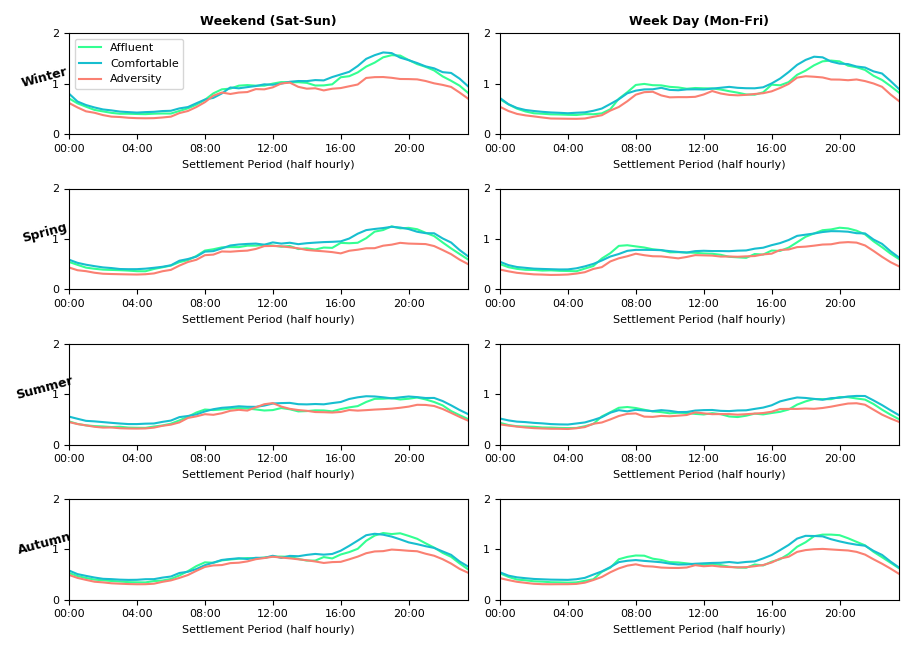
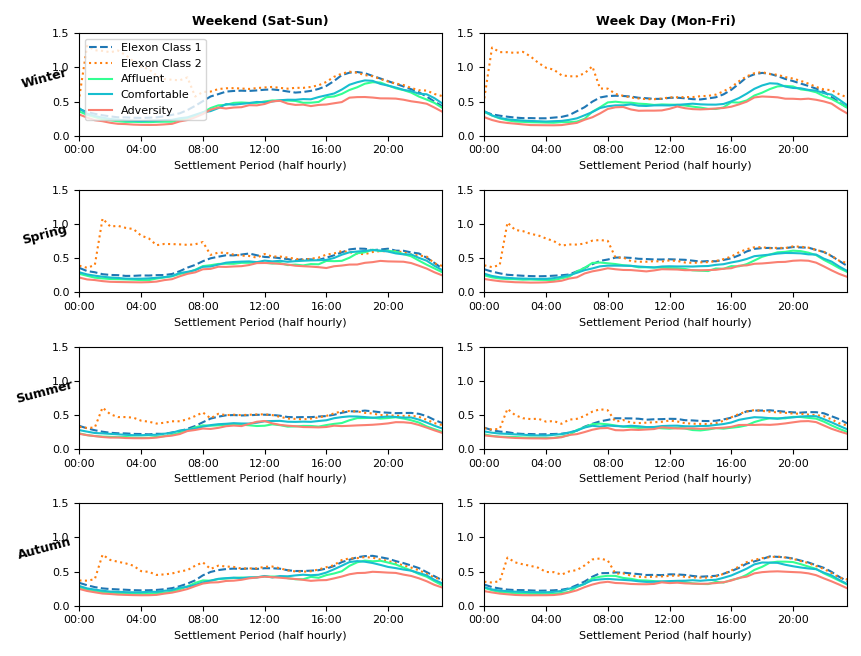
SM fix

diff --git a/Data/SM_Load.py b/Data/SM_Load.py
@@ -22,16 +22,15 @@ Adversity | 55 | 662 | 7.75 |   15.99 | 0.33
 Comfortable | 46 | 655 | 9.24 |   19.24 | 0.40
 Affluent | 86 | 676 | 11.17 |   25.59 | 0.53
 
-The script creates 3 pickle files with the data processed:
+The script creates 4 pickle files with the data processed:
     
 - "SM_DataFrame.pickle" - Smart meter raw data for 187 Smart meters (subset of the 5,500 LCL customers).Timestamped
 
 - "SM_Summary.pickle" - Summary of Acorn Group, Date Ranges and Means/Peaks for each household
 
-- "SM_Normalised.pickle" - Customers are combined into Seasonal (and weekday/weekend) daily profiles by ACorn Group
+- 'SM_DistsByAcorn_NH' Costumers by acorn group with overnight heating demand removed
 
-- 'SMDistsByAcorn_NH' Costumers by acorn group with overnight heating demand removed
-
+- "SM_Consolidated_NH.pickle" - Customers are combined into Seasonal (and weekday/weekend) daily profiles by ACorn Group, Heating demand removed
 
 @author: Calum Edmunds
 """
@@ -105,10 +104,9 @@ def SMCondensed():
             SM_Summary["MaxDate"][z] = SM_Individual['Date'].max()
             SM_Summary["Days"][z] = (SM_Individual['Date'].max() - SM_Individual['Date'].min()).days
             SM_Summary["Tariff"][z] = SM_Individual["Tar"].unique()
-            SM_Individual['kWh']=SM_Individual['kWh'].replace("Null", 0).astype(float) * 2
             SM_Summary["PeakDemandkW"][z] = SM_Individual["kWh"].max()*2
             SM_Summary["DemandkWh/Day"][z] = SM_Individual["kWh"].sum() / SM_Summary["Days"][z]
-            SM_Summary["AvDemandkW"][z] = SM_Individual["kWh"].mean()
+            SM_Summary["AvDemandkW"][z] = (SM_Individual["kWh"]*2).mean()
             if len(SM_Individual) > 0:
                 SM_Stripped=SM_Individual['kWh'].replace("Null", 0).astype(float) * 2
                 SM_Stripped.index=pd.to_datetime(SM_Individual["Date"], format="%Y/%m/%d %H:%M:%S")
@@ -133,7 +131,7 @@ def SMCondensed():
     pickle_out.close()
     
     
-###SMCondensed()
+#This function prints summary data for the customers
 
 def generate_summaryData():
     pickle_in = open("Pickle/SM_Summary.pickle", "rb")
@@ -163,6 +161,7 @@ times = ['00:00','04:00','08:00','12:00','16:00','20:00','24:00']
 elexon_class1=pd.read_excel('Profiles/Average_Profiling_data_Elexon.xlsx', sheet_name='class1', index_col=0)
 elexon_class2=pd.read_excel('Profiles/Average_Profiling_data_Elexon.xlsx', sheet_name='class2',index_col=0)
 
+#This function categorises the data by Acorn Group and by Season
 def DataFramebySeason(SM_DataFrame,SM_Summary,smkeys,AcornGroup):
     SM_ByAcorn={}
    
@@ -195,27 +194,27 @@ def DataFramebySeason(SM_DataFrame,SM_Summary,smkeys,AcornGroup):
     return SM_ByAcorn
     
 #-------- Converting the data from a single column to rows of 48 hours of Data
-#Do profiles by Smartmeter by Acorn and Season
+#Daily profiles are created by Smartmeter categorised Acorn and Season
 def profilesBySM(SM_ByAcorn):
-    SMDistsByAcorn= {}
+    SM_DistsByAcorn= {}
     for i in AcornGroup:
-        SMDistsByAcorn[i]= {}
+        SM_DistsByAcorn[i]= {}
         for z in smkeys:
             SM_ByAcorn[i][z]=SM_ByAcorn[i][z].loc[:,~SM_ByAcorn[i][z].columns.duplicated()]
             print(z)
-            SMDistsByAcorn[i][z]={}
+            SM_DistsByAcorn[i][z]={}
             for c in SM_ByAcorn[i][z]:
                 n=0
                 print(c)
-                SMDistsByAcorn[i][z][c]=pd.DataFrame(index=range(0,20000),columns=range(0,48))
+                SM_DistsByAcorn[i][z][c]=pd.DataFrame(index=range(0,20000),columns=range(0,48))
                 for d in range(0, int(len(SM_ByAcorn[i][z][c])/48)):
-                    SMDistsByAcorn[i][z][c].iloc[n] = SM_ByAcorn[i][z][c].iloc[48*d:48*d+48].values.astype(float)
+                    SM_DistsByAcorn[i][z][c].iloc[n] = SM_ByAcorn[i][z][c].iloc[48*d:48*d+48].values.astype(float)
                     #print(SM_ByAcorn[i][z][c].iloc[48*d:48*d+48].index.min())
                     #print(SM_ByAcorn[i][z][c].iloc[48*d:48*d+48].index.max())
                     n=n+1
-                SMDistsByAcorn[i][z][c] = SMDistsByAcorn[i][z][c][SMDistsByAcorn[i][z][c].sum(axis=1) > 0]
-                SMDistsByAcorn[i][z][c].reset_index(drop=True, inplace=True)
-    return SMDistsByAcorn
+                SM_DistsByAcorn[i][z][c] = SM_DistsByAcorn[i][z][c][SM_DistsByAcorn[i][z][c].sum(axis=1) > 0]
+                SM_DistsByAcorn[i][z][c].reset_index(drop=True, inplace=True)
+    return SM_DistsByAcorn
 
 #------------------- Data Visualisation -----------------------------#
 def SM_Visualise(SM_DistsConsolidated,smkeys,times):
@@ -227,16 +226,17 @@ def SM_Visualise(SM_DistsConsolidated,smkeys,times):
     r=0
     for item in smkeys:
         plt.subplot(420 + n)
-        plt.plot(elexon_class1[smkeys(i)])
+        plt.plot(elexon_class1[item].values, linestyle="--",label="Elexon Class 1")
+        plt.plot(elexon_class2[item].values, linestyle=":",label="Elexon Class 2")
         plt.plot(SM_DistsConsolidated['Affluent'][item].mean(),color='#33FF92', label="Affluent")
         plt.plot(SM_DistsConsolidated['Comfortable'][item].mean(),color='#17becf', label="Comfortable")
         plt.plot(SM_DistsConsolidated['Adversity'][item].mean(),color='#FA8072', label="Adversity")
         plt.xlabel("Settlement Period (half hourly)", fontsize=8)
         #plt.ylabel("Demand (kW)", fontsize=8)
         plt.xlim([0,47])
-        plt.ylim([0,2])
+        plt.ylim([0,1.5])
         #plt.yticks([0,0.5,1,1.5,2])
-        #plt.yticks([0,0.4,0.8,1.2,1.6])
+        plt.yticks([0,0.5,1,1.5])
         plt.xticks(fontsize=8)
         plt.yticks(fontsize=8)
         if n==1:
@@ -250,48 +250,45 @@ def SM_Visualise(SM_DistsConsolidated,smkeys,times):
         n = n + 1
         plt.xticks(range(0,47,8),times)
 
-#SM_Visualise(smkeys)
-
-#SM_ByAcorn=Consolidate(smkeys)
 
 #---------- Removing heating loads
-pick_in = open("Pickle/SM_DailyByAcorn.pickle", "rb")
-SMDistsByAcorn = pickle.load(pick_in)
+pick_in = open("Pickle/SM_DistsByAcorn.pickle", "rb")
+SM_DistsByAcorn = pickle.load(pick_in)
 
 def Heaters(SM_DataFrame):
     Heaters=(SM_DataFrame[SM_DataFrame.index.hour==0]>4).sum()>1
     Heaters=Heaters[Heaters]
     HeatersSort=(SM_DataFrame[SM_DataFrame[Heaters.index].index.hour==0].sum()+SM_DataFrame[SM_DataFrame[Heaters.index].index.hour==1].sum()).sort_values()
-    ToRemove = HeatersSort[HeatersSort>4000].index
+    ToRemove = HeatersSort[HeatersSort>2000].index
     return ToRemove,HeatersSort
 
-def HeatVisuals(times,SMDistsByAcorn,SM_DataFrame,HeatersSort):
 #----------------- Visualise Heat Loads ----------
+def HeatVisuals(times,SM_DistsByAcorn,SM_DataFrame,HeatersSort):
     n=1
     for z in HeatersSort[-4:].index:
         plt.subplot(420 + n)
         plt.xlim([0,47])
-        plt.ylim([0,20])
+        plt.ylim([0,12])
         plt.xticks(fontsize=8)
         plt.yticks(fontsize=8)
         plt.xticks(range(0,47,8),times)
         if n==1:
             plt.title('Weekend (Sat-Sun)', fontsize=9, fontweight="bold")
-        for i in SMDistsByAcorn['Affluent']['WinterWknd'][z].index:
-           plt.plot(SMDistsByAcorn['Affluent']['WinterWknd'][z].loc[i], linewidth=0.5)
-        plt.plot(SMDistsByAcorn['Affluent']['WinterWknd'][z].mean(),linestyle="--",color="black")
+        for i in SM_DistsByAcorn['Affluent']['WinterWknd'][z].index:
+           plt.plot(SM_DistsByAcorn['Affluent']['WinterWknd'][z].loc[i], linewidth=0.5)
+        plt.plot(SM_DistsByAcorn['Affluent']['WinterWknd'][z].mean(),linestyle="--",color="black")
         n=n+1
         if n%2==0:
             plt.ylabel(z, rotation=25, fontsize=9, fontweight="bold")
         plt.subplot(420 + n)
         plt.xlim([0,47])
-        plt.ylim([0,20])
+        plt.ylim([0,12])
         plt.xticks(fontsize=8)
         plt.yticks(fontsize=8)
         plt.xticks(range(0,47,8),times)
-        for i in SMDistsByAcorn['Affluent']['WinterWkd'][z].index:
-           plt.plot(SMDistsByAcorn['Affluent']['WinterWkd'][z].loc[i], linewidth=0.5)
-        plt.plot(SMDistsByAcorn['Affluent']['WinterWkd'][z].mean(),linestyle="--",color="black")
+        for i in SM_DistsByAcorn['Affluent']['WinterWkd'][z].index:
+           plt.plot(SM_DistsByAcorn['Affluent']['WinterWkd'][z].loc[i], linewidth=0.5)
+        plt.plot(SM_DistsByAcorn['Affluent']['WinterWkd'][z].mean(),linestyle="--",color="black")
         if n==2:
             plt.title('Week Day (Mon-Fri)', fontsize=9, fontweight="bold")
         n=n+1
@@ -302,12 +299,10 @@ def removeHeating(SM_DataFrame,SM_Summary,ToRemove):
     SM_Summary_NH=SM_Summary.drop(index=ToRemove)
     SM_Summary_NH=SM_Summary_NH[~SM_Summary_NH.index.duplicated()]
     SM_ByAcorn_NH=DataFramebySeason(SM_DataFrame_NH,SM_Summary_NH,smkeys,AcornGroup)
-    #SMDistsByAcorn_NH=profilesBySM(SM_ByAcorn_NH)
     
-    return SM_Summary_NH,SM_DataFrame_NH, SM_ByAcorn_NH#, SMDistsByAcorn_NH
+    return SM_Summary_NH,SM_DataFrame_NH, SM_ByAcorn_NH
 
 #Create new DF with heat demand removed
-    
 def nowdf(SM_DataFrame):
     ToRemove,HeatersSort=Heaters(SM_DataFrame)
     SM_Summary_NH,SM_DataFrame_NH = removeHeating(SM_DataFrame,SM_Summary)
@@ -315,26 +310,26 @@ def nowdf(SM_DataFrame):
     
 
 #Convert from Individual SMs by Acorn to consolidated by ACorn
-def ConsolidatefromAcornSMs(SMDistsByAcorn_NH):
+def ConsolidatefromAcornSMs(SM_DistsByAcorn_NH):
     SM_DistsConsolidated={}
     for i in AcornGroup:
         SM_DistsConsolidated[i]= {}
         for z in smkeys:
-            DFkeys=list(SMDistsByAcorn_NH[i][z].keys())
-            SM_DistsConsolidated[i][z]=SMDistsByAcorn_NH[i][z][DFkeys[0]].astype(float)
+            DFkeys=list(SM_DistsByAcorn_NH[i][z].keys())
+            SM_DistsConsolidated[i][z]=SM_DistsByAcorn_NH[i][z][DFkeys[0]].astype(float)
             for k in DFkeys[1:]:
-                SM_DistsConsolidated[i][z]=SM_DistsConsolidated[i][z].append(SMDistsByAcorn_NH[i][z][k].astype(float),ignore_index=True)
+                SM_DistsConsolidated[i][z]=SM_DistsConsolidated[i][z].append(SM_DistsByAcorn_NH[i][z][k].astype(float),ignore_index=True)
     return SM_DistsConsolidated
 
 def createnewDailyByAcorn():
     SM_ByAcorn=DataFramebySeason(SM_DataFrame,SM_Summary,smkeys,AcornGroup)
-    SMDistsByAcorn=profilesBySM(SM_ByAcorn)
-    pickle_out = open("Pickle/SM_DailyByAcorn.pickle", "wb")
-    pickle.dump(SMDistsByAcorn, pickle_out)
+    SM_DistsByAcorn=profilesBySM(SM_ByAcorn)
+    pickle_out = open("Pickle/SM_DistsByAcorn.pickle", "wb")
+    pickle.dump(SM_DistsByAcorn, pickle_out)
     pickle_out.close()
-    
-pick_in = open("Pickle/SM_DistsConsolidated_NH.pickle", "rb")
-SM_DistsConsolidated_NH = pickle.load(pick_in)
 
-#SM_Visualise(SM_DistsConsolidated_NH,smkeys,times)
-    
+#HeatersSort=Heaters(SM_DataFrame)[1]
+#HeatVisuals(times,SM_DistsByAcorn,SM_DataFrame,HeatersSort)
+
+pick_in = open("Pickle/SM_DistsByAcorn_NH.pickle", "rb")
+SM_DistsByAcorn_NH = pickle.load(pick_in)

diff --git a/Data/README.md b/Data/README.md
@@ -3,7 +3,7 @@
 This folder contains Scripts to process data inputs to the AGILE model
 Data inputs include the following
 - PV: London Datastore for 6 PV sites over ~400 days
-- Smart Meter: London Datastore for 185 customers over ~650 days
+- Smart Meter: London Datastore for 184 customers over ~650 days
 - Heat Pump: London Datastore 
 - Electric Vehicle: Electric nation
 
@@ -24,10 +24,12 @@ Alverston Close | 3.00 | 2013-11-06 to 2014-11-14 (372 Days)
 Maple Drive East | 4.00 | 2013-08-21 to 2014-11-13 (448 Days)
 YMCA | 0.45 | 2013-09-25 to 2014-11-19 (420 Days)
 
-The script 'PVLoad.py' creates 2 pickle files with the data processed:
+The script 'PVLoad.py' creates 4 pickle files with the data processed:
     
-- 'PV_BySiteName.pickle' - Which contains output (kW and Normalised by capacity) datestamped with a dataframe for each site
-- 'PV_Normalised.pickle' - Which has normalised output by season in rows of 48 half hours combined for all sites with timestamps removed.
+- "SM_DataFrame.pickle" - Smart meter raw data for 187 Smart meters (subset of the 5,500 LCL customers).Timestamped
+- "SM_Summary.pickle" - Summary of Acorn Group, Date Ranges and Means/Peaks for each household
+- 'SM_DistsByAcorn_NH' Costumers by acorn group with overnight heating demand removed
+- "SM_Consolidated_NH.pickle" - Customers are combined into Seasonal (and weekday/weekend) daily profiles by ACorn Group, Heating demand removed
 
 The script 'PVLoad.py' also plots the data both by site and by season. Some of the displays are shown below.
 
@@ -55,7 +57,7 @@ The means of the seasonal Gaussian mixture models can be seen below. The line we
 
 The London DataStore (or Low Carbon London (LCL)) Smart Meter data is used from: https://data.london.gov.uk/dataset/smartmeter-energy-use-data-in-london-households .
 
-There is a data for 5,500 customers, a random 185 customers are chosen for sampling to keep data manageable size.
+There is a data for 5,500 customers, a random 184 customers are chosen for sampling to keep data manageable size.
 From Files:
 - 'Power-Networks-LCL-June2015(withAcornGps)v2_1.csv'
 - 'Power-Networks-LCL-June2015(withAcornGps)v2_2.csv'
@@ -65,17 +67,18 @@ From Files:
 - 'Power-Networks-LCL-June2015(withAcornGps)v2_101.csv'
 
 Some example analysis of the data is found https://data.london.gov.uk/blog/electricity-consumption-in-a-sample-of-london-households/ .
-The data for the 185 Households used in Agile is summarised below, by Acorn Group:
+The data for the 184 Households used in Agile is summarised below, by Acorn Group:
 
-Acorn Group|Number of customers| Avg Days of Data (per customer)| Peak Demand (kW)| Average Daily Demand (kWh/day) | Average demand (kW)
+Acorn Group|Number of customers| Avg Days of Data (per customer)| Average Peak Demand (kW)| Average Daily Demand (kWh/day) | Average demand (kW)
 -----------|-------------------|--------------------------------|------------------|-------------------------------|--------------------
-Adversity | 57 | 662 | 7.75 | 15.99 | 0.33
-Comfortable | 46 | 655 | 9.24 | 19.24 | 0.40
-Affluent | 86 | 676 | 11.17 | 25.59 | 0.53
+Adversity | 54 | 670|3.88|8.04|0.33
+Comfortable | 46 | 655|4.62|9.62|0.40
+Affluent | 84 |679|5.58|12.87| 0.54
+
 
 The script creates 3 pickle files with the data processed:
     
-- "SM_DataFrame.pickle" - Smart meter raw data for 185 Smart meters (subset of the 5,500 LCL customers).Timestamped
+- "SM_DataFrame.pickle" - Smart meter raw data for 184 Smart meters (subset of the 5,500 LCL customers).Timestamped
 
 - "SM_Summary.pickle" - Summary of Acorn Group, Date Ranges and Means/Peaks for each household
 
@@ -85,7 +88,10 @@ The script creates 3 pickle files with the data processed:
 
 #### Seasonal Mean Demand by Acorn Group
 
-The daily mean demand (kW) profiles for the subset of 185 househoulds, categorised by Season, weekend/weekday and Acorn Group (Adversity, Comfortable, Affluent) is shown below:
+The daily mean demand (kW) profiles for the subset of 184 househoulds, categorised by Season, weekend/weekday and Acorn Group (Adversity, Comfortable, Affluent) is shown below:
+
+Elexon average customer demand profiles from https://www.elexon.co.uk/operations-settlement/profiling/ are superimposed for comparison. 
+Class 1 customers are Domestic Unrestricted Customers and Class 2 customers are Domestic Economy 7 Customers which would typically include overnight storage heating and hot water.
 
 ![PVSeason](Visualisation/SM_Consolidated.png)
 
@@ -94,8 +100,8 @@ From Inspection there are unexpected peaks in the winter demand from midnight ti
 As Heat pump demand is to be added to customers base load, it is important to separate customers with electric heating, so that
 heat demand is not added twice to any customers.
 
-Some of the Customers with the highest overnight and 4pm demand are shown below. These are all Affluent type customers with very high annual demands, 
-amongst the highest of the sample set, of up to 30,000 kWh/year. As a reference, the Ofgem Typical Domestic Consumption Values (TCVD) for a high user 
+Some of the Customers with the highest overnight and 4pm demand are shown below. These are all Affluent type customers with high annual demands, 
+amongst the highest of the sample set, of up to 10,000 kWh/year. As a reference, the Ofgem Typical Domestic Consumption Values (TCVD) for a high user 
 of electricity on Economy 7 Tariff (as customers with storage heating typically are), is 7,100 kWh/year.
 
 ![PVSeason](Visualisation/SM_Heating.png)
@@ -104,18 +110,23 @@ y axis is demand in kW, y labels are the customer ID
 
 #### Demand profiles with high overnight demand removed
 
-Customers with demands above 2000kWh/year in the hours of midnight to 2am were removed. This removed 23 customer profiles with 162 remaining.
+Customers with demands above 1000kWh/year in the hours of midnight to 2am were removed. This removed 23 customer profiles with 162 remaining.
 
 3 Adversity and 20 Affluent customers were removed. The remaining customers are summarised as follows;
 
-Acorn Group|Number of customers| Avg Days of Data (per customer)| Peak Demand (kW)| Average Daily Demand (kWh/day) | Average demand (kW)
+Acorn Group|Number of customers| Avg Days of Data (per customer)| Average Peak Demand (kW)| Average Daily Demand (kWh/day) | Average demand (kW)
 -----------|-------------------|--------------------------------|------------------|-------------------------------|--------------------
-Adversity | 54 | 662 | 7.51 | 15.25 | 0.32
-Comfortable | 46 | 655 | 9.24 | 19.24 | 0.40
-Affluent | 66 | 666 | 9.16 | 17.88 | 0.37
+Adversity | 50 | 662 | 3.76 | 7.63 | 0.32
+Comfortable | 46 | 655 | 4.62 | 9.62 | 0.40
+Affluent | 66 | 666 | 4.58 | 8.94 | 0.37
 
 As can be seen from the table above and the mean daily demand profiles below. There is now little difference between Affluent and Comfortable customers in terms of demand.
 
 In fact Comfortable customers now have a higher average daily demand and peak. This highlights the significant effect the 20 high demand Affluent customers had on the averaged data.
 
+The demand in the LCL subset is lower than the Elexon class 1 and class 2 profiles. Therefore heat pump and EV demand can be added with some confidence that there is not already a
+significant amounts already there.
+
 ![PVSeason](Visualisation/SM_Consolidated_NH.png)
+
+
